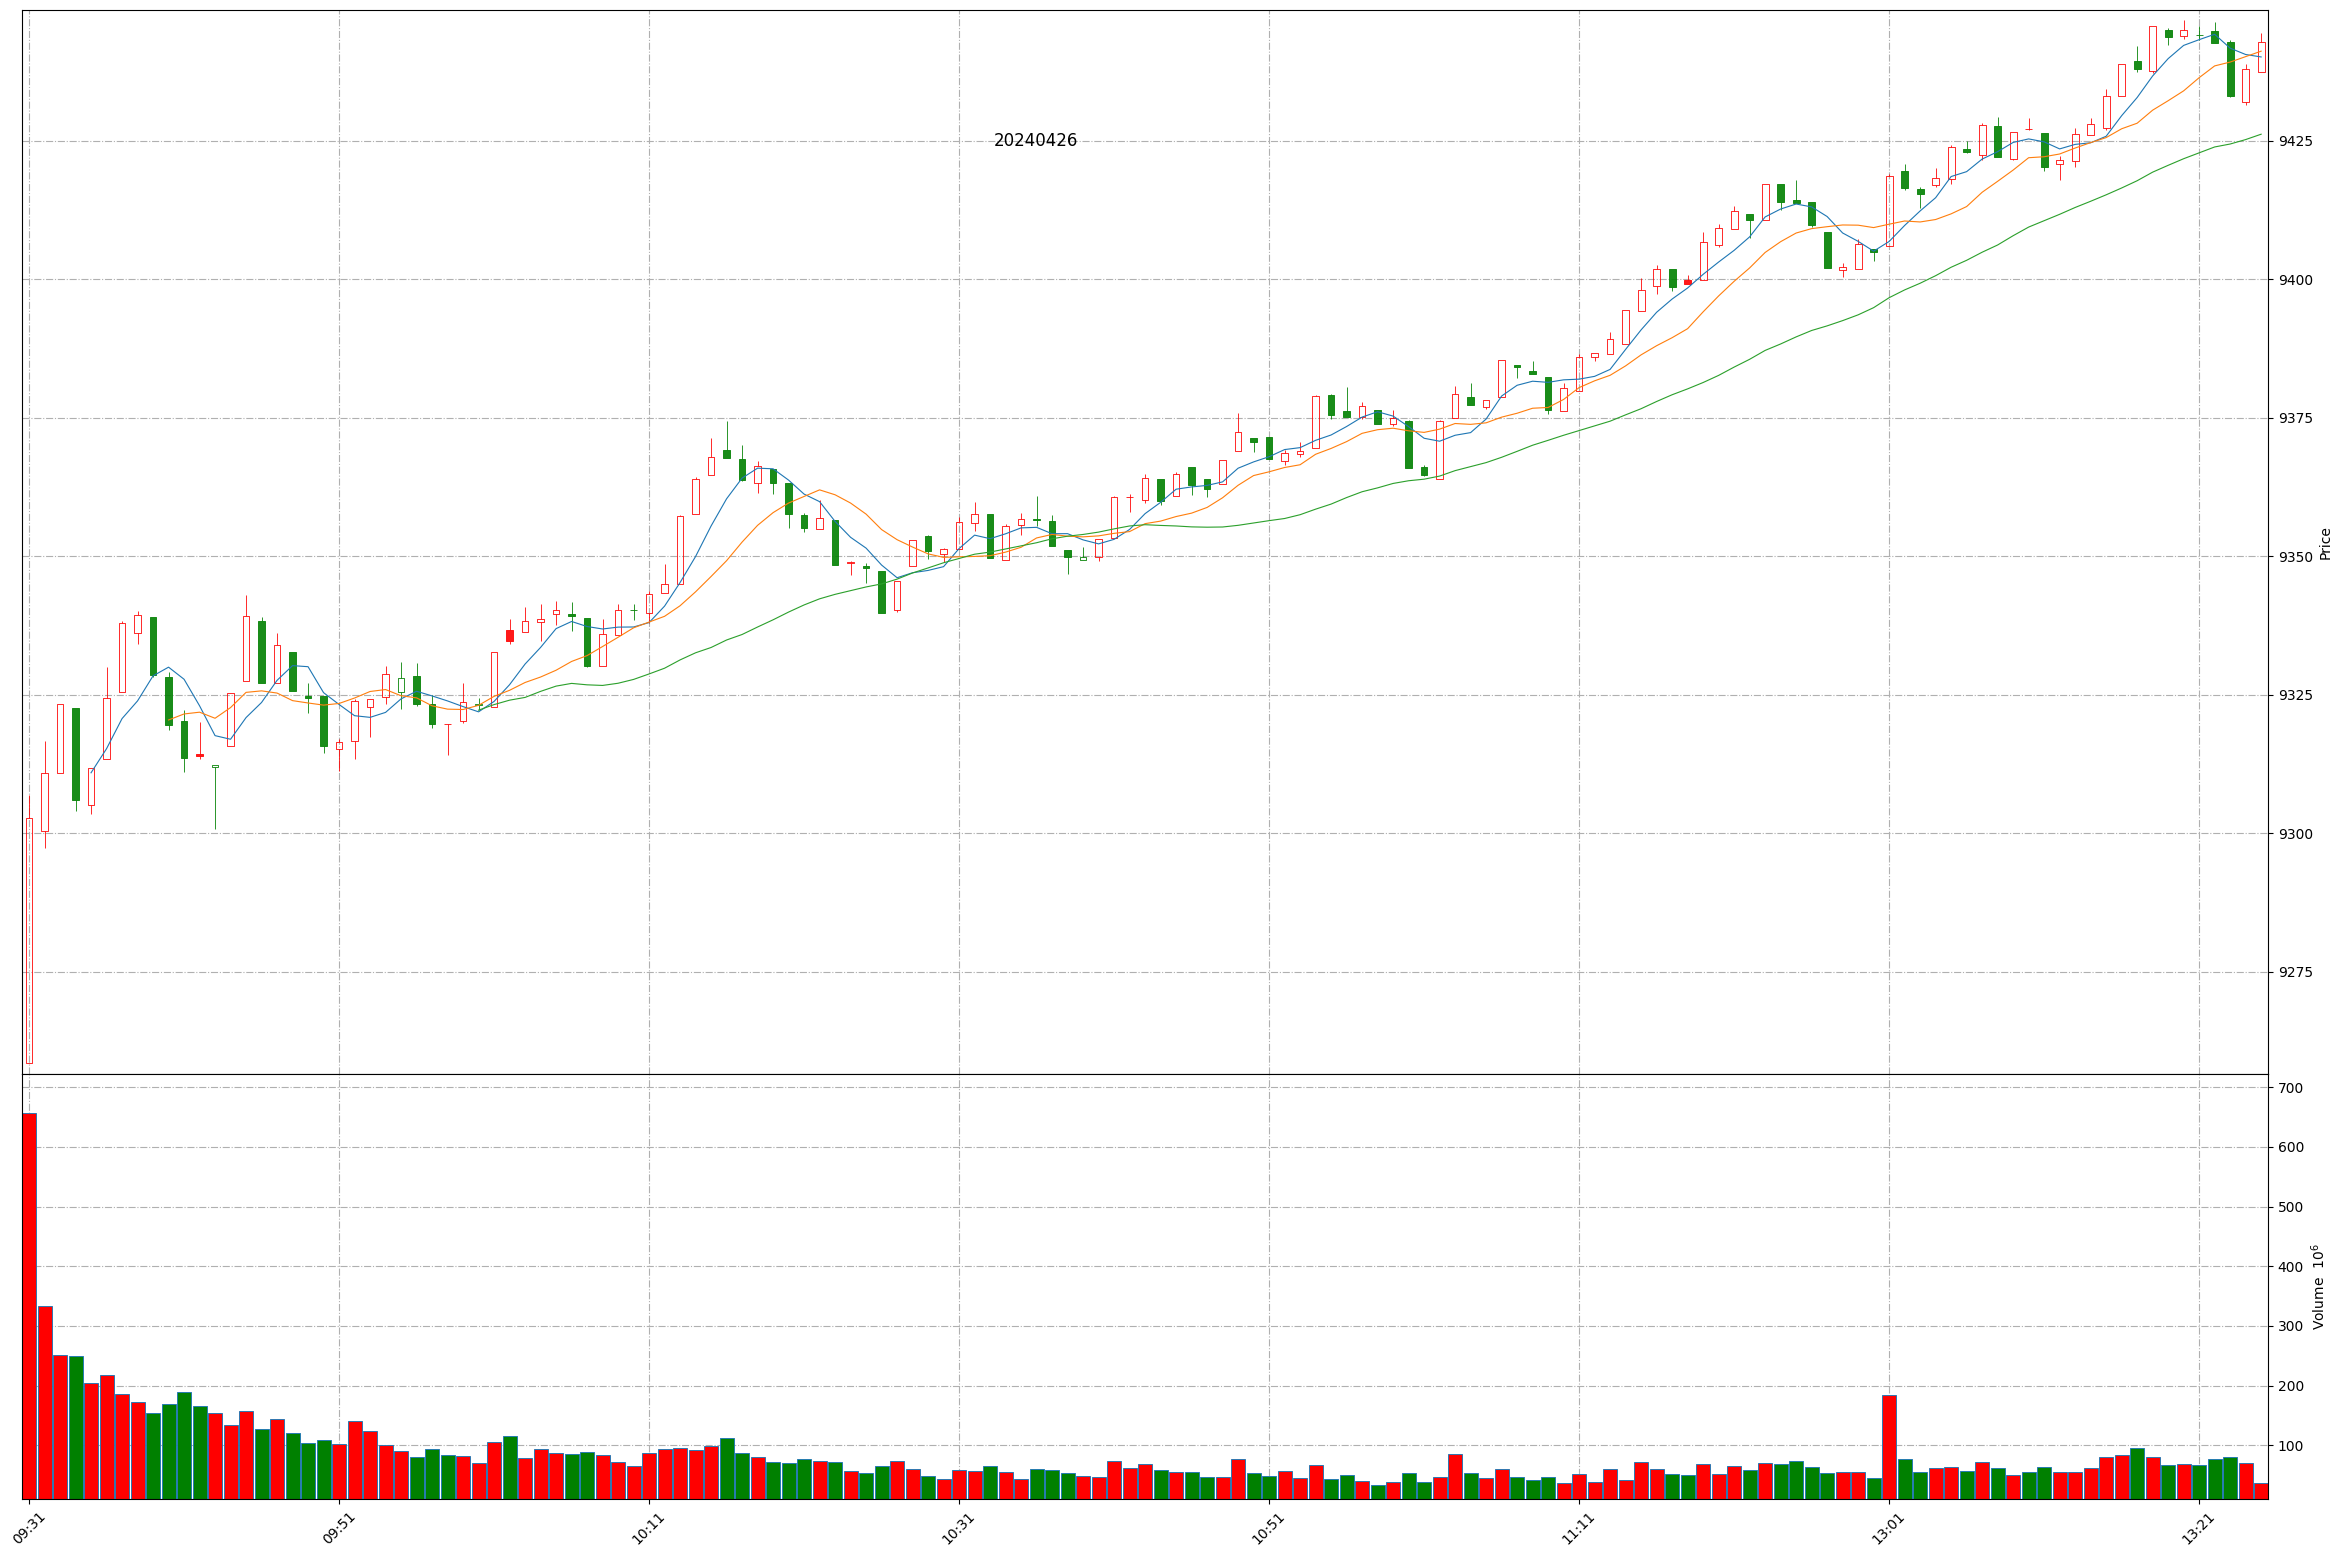
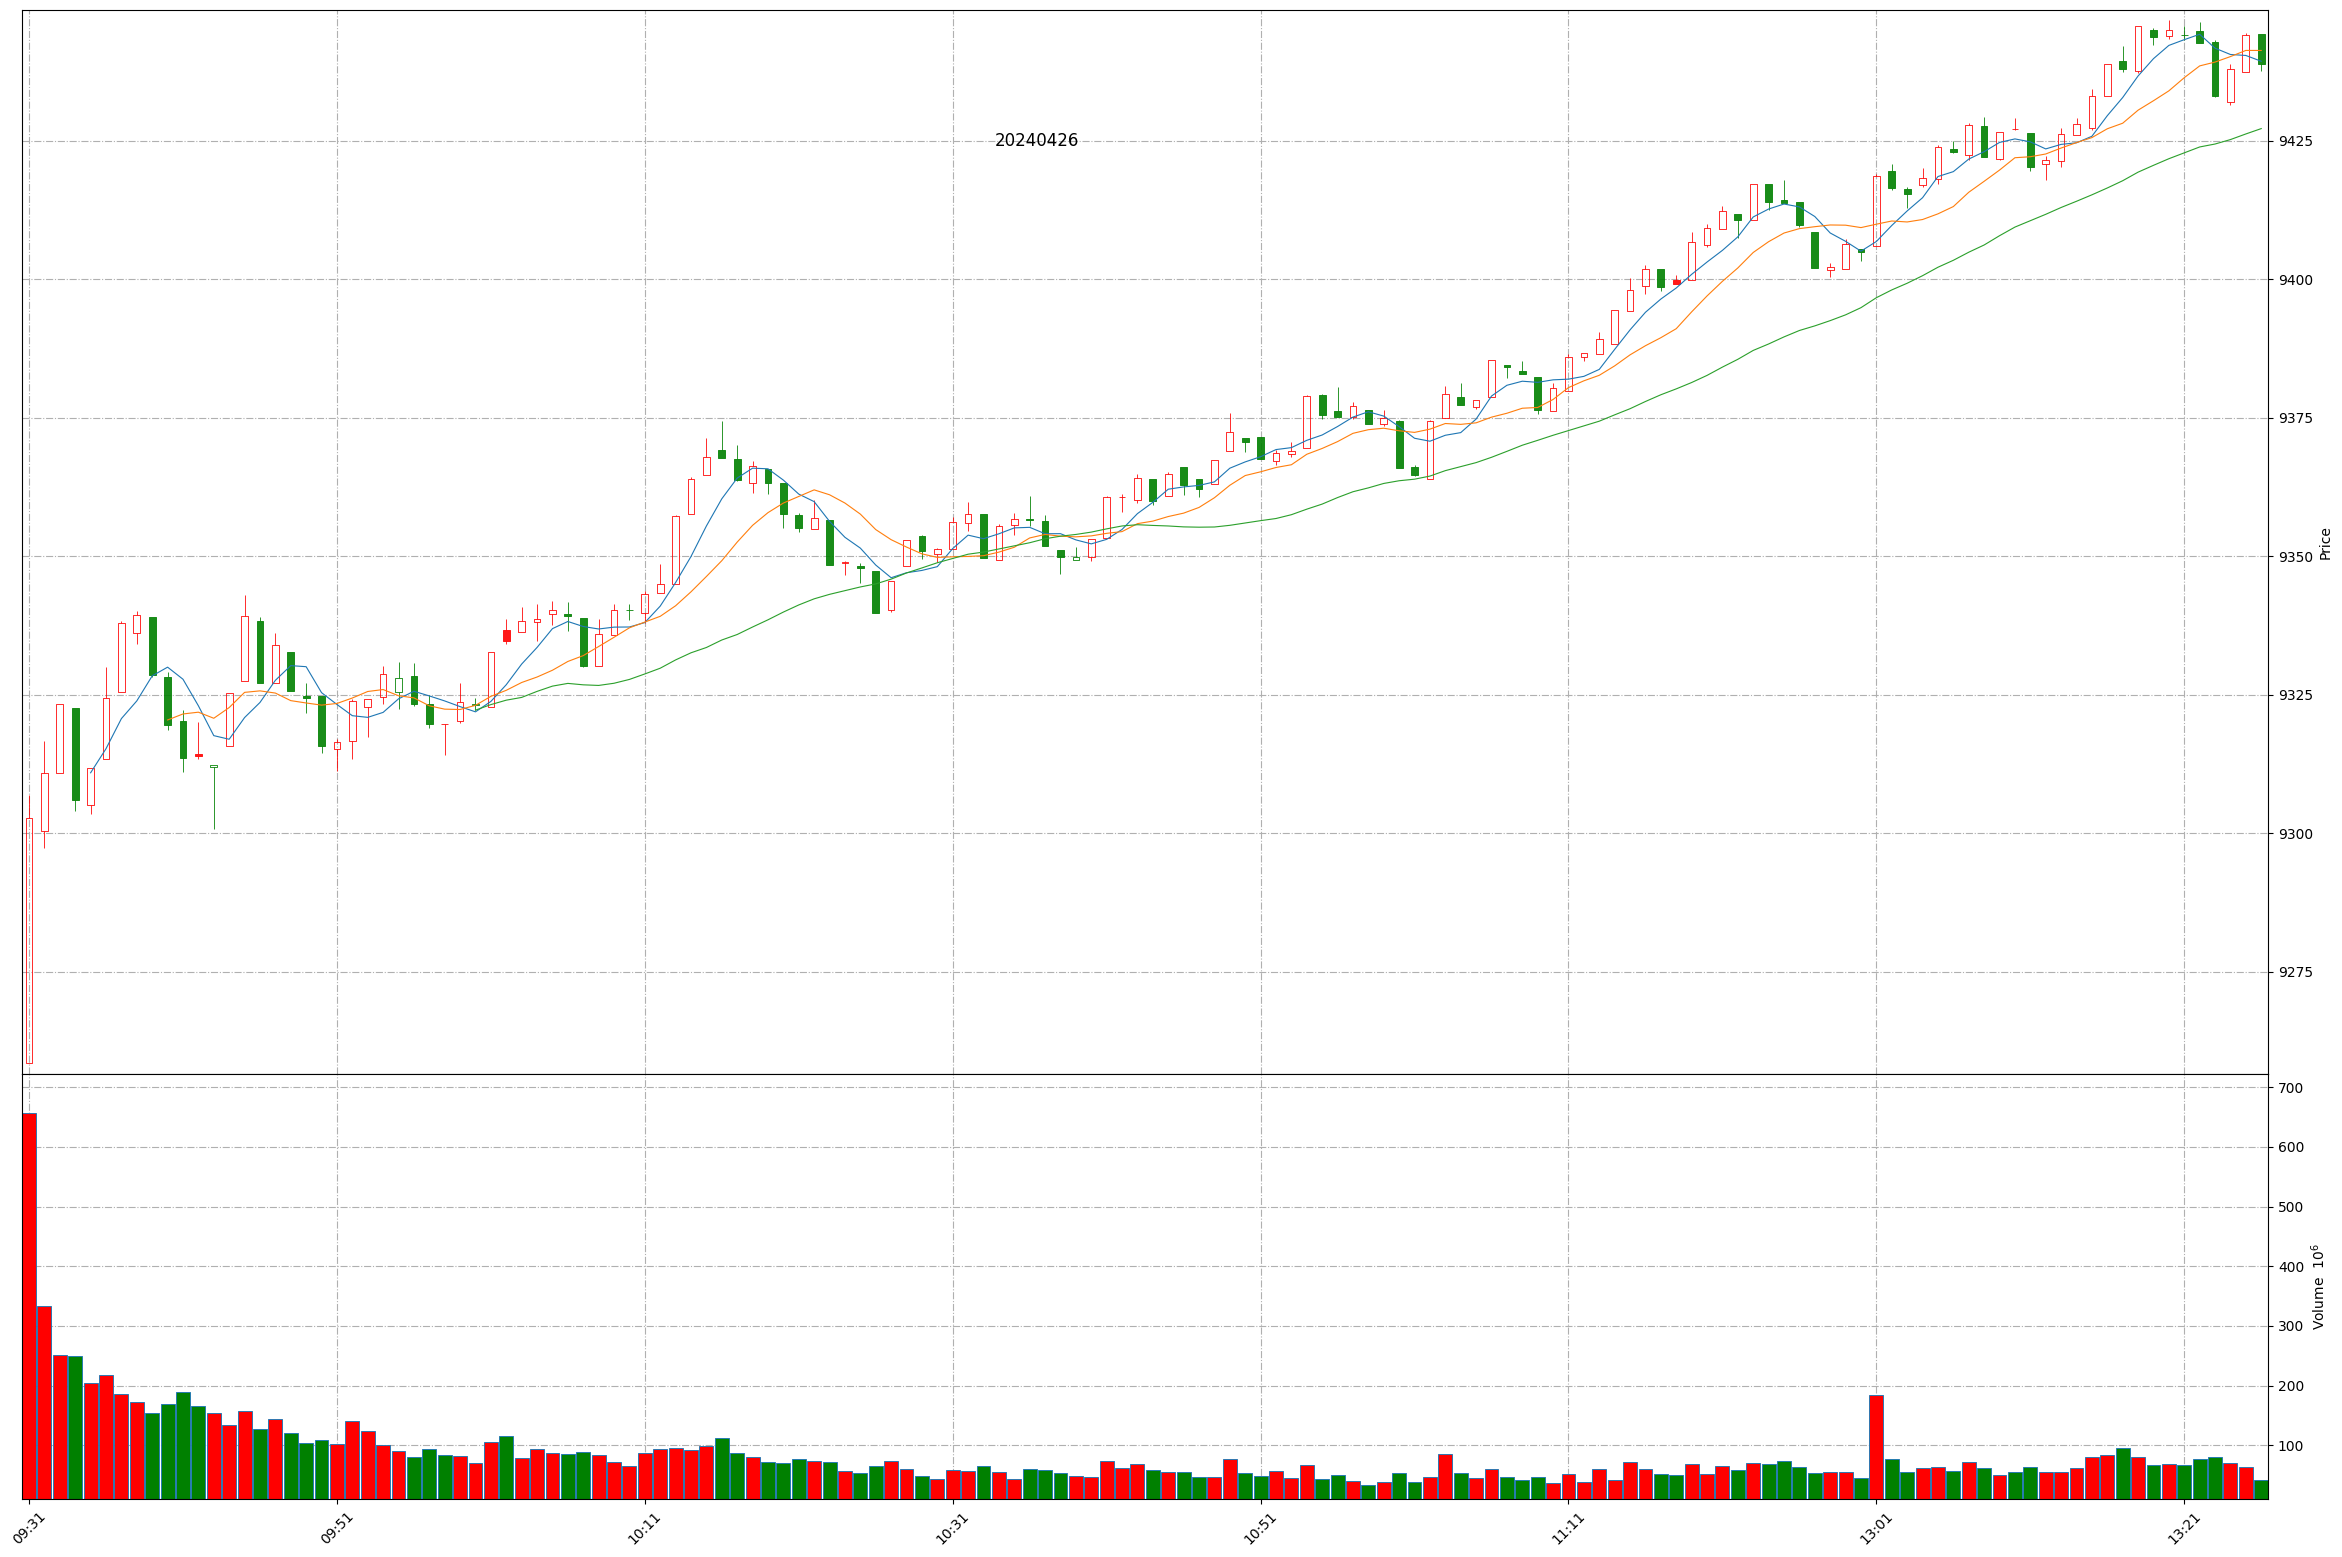
Github action update at 2024-04-26 13:26:04.

Changed region(s): [[0.0312, 0.894, 0.9663, 0.9865], [0.0623, 0.2775, 0.5611, 0.4933], [0.5611, 0.0, 0.9663, 0.3083]]

diff --git a/README.md b/README.md
@@ -1,11 +1,11 @@
 
 # Daily-A-share-market-quotes 每日 A 股指数（5min 更新）- 20240426
 
-### 上证指数 20240426 13:24
+### 上证指数 20240426 13:26
 ![](./fig/2024/4/20240426-sh000001.png)
 
-### 深证成指 20240426 13:24
+### 深证成指 20240426 13:26
 ![](./fig/2024/4/20240426-sz399001.png)
 
-### 北证50 20240426 13:24
+### 北证50 20240426 13:26
 ![](./fig/2024/4/20240426-bj899050.png)
